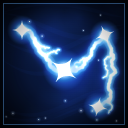
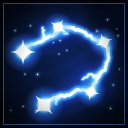
[Claude] feat(ui): 疾風迅雷、雙刀亂舞、突刺、連鎖閃電圖示重畫
- 疾風迅雷：改為深藍披風人影突進的剪影（兩道殘影、朝前輪廓光）＋白光斬擊，雷電只剩細電弧點綴
- 雙刀亂舞：刀身收細、刀柄放大到合理比例
- 突刺：只畫刀身前半段，刀尖、衝擊波紋與閃光為主角
- 連鎖閃電：光點沿不閉合五角形跳一圈，均勻分布於正方形
- 四張的構圖重心偏移都在 10 以內（centroid 量測）

diff --git a/tools/skill-icons/skill-icon-painter.js b/tools/skill-icons/skill-icon-painter.js
@@ -432,60 +432,48 @@
 
   var PAINTERS = {};
 
-  /* 突刺：細劍斜刺，殘影＋刺尖衝擊環 */
+  /* 突刺：只取刀身前半段——刀身從左下畫外伸入，刀尖在畫面中央偏右上，衝擊波紋＋閃光是主角 */
   PAINTERS.thrust = function (c, R) {
-    background(c, R, Object.assign({ cx: 186, cy: 72 }, PAL.steel));
-    var tx = 212, ty = 44, bx = 66, by = 194;
-    var ang = Math.atan2(ty - by, tx - bx);
-    var dx = Math.cos(ang), dy = Math.sin(ang), nx = -dy, ny = dx;
-    /* 速度線：全部平行於刺擊方向 */
+    background(c, R, Object.assign({ cx: 150, cy: 106 }, PAL.steel));
+    var tx = 156, ty = 96;  /* 量出重心偏右 11，往左補 */
+    var ang = Math.atan2(-1, 1), dx = Math.cos(ang), dy = Math.sin(ang), nx = -dy, ny = dx;
+    /* 速度線（短、集中在刀身周圍） */
     add(c);
     for (var i = 0; i < 12; i++) {
-      var off = range(R, -70, 70), st = range(R, -80, 40), ln = range(R, 50, 120);
-      var x0 = 128 + nx * off + dx * st, y0 = 128 + ny * off + dy * st;
-      ribbon(c, linePts(x0 - dx * ln, y0 - dy * ln, x0, y0, 8), function (t) { return 2 * Math.sin(Math.PI * t); },
-        rgba('#a8d0ff', range(R, 0.12, 0.35)));
+      var off = range(R, -56, 56), st = range(R, -150, -30), ln = range(R, 40, 90);
+      var x0 = tx + nx * off + dx * st, y0 = ty + ny * off + dy * st;
+      ribbon(c, linePts(x0, y0, x0 + dx * ln, y0 + dy * ln, 8), function (t) { return 2.2 * Math.sin(Math.PI * t); },
+        rgba('#a8d0ff', range(R, 0.15, 0.4)));
     }
     normal(c);
-    /* 殘影：同一直線往後錯開的藍色劍影（連刺） */
+    /* 衝擊波紋：沿刺擊方向排開的橢圓環，越前越大越淡（畫在刀身後，刀尖穿過它們） */
     add(c);
-    [46, 92].forEach(function (back, k) {
-      var pts = linePts(bx - dx * back, by - dy * back, tx - dx * back, ty - dy * back, 20);
-      ribbon(c, pts, function (t) { return 9 * (t > 0.7 ? (1 - t) / 0.3 : 1); }, alongGrad(c, pts,
-        [[0, 'rgba(90,160,255,0)'], [0.6, 'rgba(110,180,255,' + (0.35 - k * 0.12) + ')'], [1, 'rgba(200,230,255,' + (0.55 - k * 0.18) + ')']]));
-    });
-    normal(c);
-    /* 細劍 */
-    bladeAlong(c, linePts(bx, by, tx, ty, 26), 9, STEEL, { wFn: function (t) { return t > 0.62 ? Math.pow((1 - t) / 0.38, 0.8) : 1; } });
-    /* 杯狀護手：金色半球＋護指弓 */
-    c.save(); c.translate(bx, by); c.rotate(ang);
-    var cg = c.createLinearGradient(0, -18, 0, 18);
-    cg.addColorStop(0, '#fff1b8'); cg.addColorStop(0.45, '#d9a441'); cg.addColorStop(1, '#4a2e0c');
-    c.fillStyle = cg;
-    c.beginPath(); c.ellipse(2, 0, 7, 19, 0, -Math.PI / 2, Math.PI / 2); c.lineTo(2, -19); c.fill();
-    c.strokeStyle = '#d9a441'; c.lineWidth = 2.6;
-    c.beginPath(); c.moveTo(4, -17); c.bezierCurveTo(-10, -26, -34, -18, -40, -4); c.stroke();
-    c.fillStyle = '#2a1a12'; roundRect(c, -38, -4, 36, 8, 3); c.fill();
-    c.fillStyle = cg; c.beginPath(); c.arc(-42, 0, 6, 0, TAU); c.fill();
-    c.restore();
-    /* 刺尖：錐狀衝擊環＋前衝光束 */
-    add(c);
-    for (var k = 0; k < 3; k++) {
-      var d = 14 + k * 18;
-      c.save(); c.translate(tx - dx * d, ty - dy * d); c.rotate(ang);
-      c.strokeStyle = rgba('#bfe0ff', 0.8 - k * 0.22); c.lineWidth = 2.4 - k * 0.5;
-      c.shadowBlur = 8; c.shadowColor = '#7fb8ff';
-      c.beginPath(); c.ellipse(0, 0, 4 + k * 2, 12 + k * 10, 0, 0, TAU); c.stroke();
+    for (var k = 0; k < 4; k++) {
+      var d = -26 + k * 20;
+      c.save(); c.translate(tx + dx * d, ty + dy * d); c.rotate(ang);
+      c.strokeStyle = rgba('#bfe0ff', 0.85 - k * 0.17); c.lineWidth = 3.2 - k * 0.5;
+      c.shadowBlur = 12; c.shadowColor = '#7fb8ff';
+      c.beginPath(); c.ellipse(0, 0, 7 + k * 3, 22 + k * 13, 0, 0, TAU); c.stroke();
       c.restore();
     }
-    for (var r2 = 0; r2 < 7; r2++) {
-      var a = ang + range(R, -0.35, 0.35), ln2 = range(R, 18, 44);
-      ribbon(c, linePts(tx, ty, tx + Math.cos(a) * ln2, ty + Math.sin(a) * ln2, 5), function (t) { return 3 * (1 - t); }, rgba('#dff0ff', 0.7));
+    normal(c);
+    /* 刀身前半段：寬，往刀尖收 */
+    var bx = tx - dx * 190, by = ty - dy * 190;
+    bladeAlong(c, linePts(bx, by, tx, ty, 26), 19, STEEL, { wFn: function (t) { return t > 0.4 ? Math.pow((1 - t) / 0.6, 0.75) : 1; } });
+    /* 中央血槽 */
+    add(c);
+    strokePts(c, linePts(bx + dx * 10, by + dy * 10, tx - dx * 70, ty - dy * 70, 2), 2.4, 'rgba(220,235,255,0.45)');
+    normal(c);
+    /* 刀尖閃光與往前迸的光束 */
+    add(c);
+    for (var r2 = 0; r2 < 9; r2++) {
+      var a = ang + range(R, -0.45, 0.45), ln2 = range(R, 22, 60);
+      ribbon(c, linePts(tx, ty, tx + Math.cos(a) * ln2, ty + Math.sin(a) * ln2, 5), function (t) { return 3.4 * (1 - t); }, rgba('#dff0ff', 0.75));
     }
     normal(c);
-    coreGlow(c, tx, ty, 34, '#7fb8ff');
-    sparkle(c, tx, ty, 22, '#9fd0ff', 0.2);
-    motes(c, R, 12, [140, 10, 246, 120], ['#bfe0ff', '#ffffff'], 1, 2.2);
+    coreGlow(c, tx, ty, 36, '#7fb8ff');
+    sparkle(c, tx, ty, 24, '#9fd0ff', 0.2);
+    motes(c, R, 14, [90, 20, 246, 170], ['#bfe0ff', '#ffffff'], 1, 2.4);
   };
 
   /* 迴旋斬：俯視的旋風刀光圓盤，刀光平均分布一整圈；金橘赤紅洋紅多色，青白火花點綴（不畫兵器） */
@@ -573,54 +561,73 @@
     motes(c, R, 12, [30, 20, 240, 230], ['#bfe0ff'], 1, 2);
   };
 
-  /* 疾風迅雷：一道粗大的 Z 字實心雷電斜劈而過，外纏青綠疾風氣流，後方拖速度線（風＋雷＋快） */
+  /* 疾風迅雷：深藍人影突進的剪影（兩道殘影），前方一道白光斬擊，周圍只用細細的白色電弧點綴——本質是斬擊，雷不是主角 */
   PAINTERS.gale = function (c, R) {
-    background(c, R, Object.assign({ cx: 128, cy: 128 }, PAL.bolt));
-    add(c); glowDot(c, 128, 128, 120, '#2a8a7a', 0.25); normal(c);
-    /* 速度線：從左下往右上，與雷電同向 */
-    var dir = Math.atan2(-1, 0.8), dx = Math.cos(dir), dy = Math.sin(dir), nx = -dy, ny = dx;
+    background(c, R, Object.assign({ cx: 120, cy: 128 }, PAL.ice));
+    /* 水平速度線 */
     add(c);
-    for (var i = 0; i < 12; i++) {
-      var off = range(R, -90, 90), st = range(R, -110, 10), ln = range(R, 40, 90);
-      var x0 = 128 + nx * off + dx * st, y0 = 128 + ny * off + dy * st;
-      ribbon(c, linePts(x0, y0, x0 + dx * ln, y0 + dy * ln, 8), function (t) { return 2.4 * Math.sin(Math.PI * t); },
-        rgba(i % 3 ? '#8ff5d0' : '#ffe27a', range(R, 0.15, 0.4)));
+    for (var i = 0; i < 16; i++) {
+      var y = range(R, 40, 220), x0 = range(R, -20, 120), ln = range(R, 50, 130);
+      ribbon(c, linePts(x0, y, x0 + ln, y - ln * 0.12, 8), function (t) { return 2.2 * Math.sin(Math.PI * t); }, rgba('#bfe0ff', range(R, 0.12, 0.35)));
     }
     normal(c);
-    /* 雷電本體：經典的 ⚡ 實心多邊形，內縮一圈當白芯 */
-    /* 上寬下尖，量出重心偏上 10，整個往下 8 */
-    var BOLT = [[150, 24], [92, 144], [128, 144], [100, 246], [176, 118], [138, 118], [178, 24]];
-    var bcx = 0, bcy = 0;
-    BOLT.forEach(function (p) { bcx += p[0] / BOLT.length; bcy += p[1] / BOLT.length; });
-    var bolt = function (cc, k) {
-      cc.beginPath();
-      BOLT.forEach(function (p, i) {
-        var x = bcx + (p[0] - bcx) * k, y = bcy + (p[1] - bcy) * k;
-        if (i) cc.lineTo(x, y); else cc.moveTo(x, y);
-      });
-      cc.closePath();
+    /* 人影：在離屏畫布畫成單色剪影，之後拿來做殘影、本體、輪廓光 */
+    var fig = makeCanvas(S, S), f = fig.getContext('2d');
+    f.fillStyle = '#000'; f.strokeStyle = '#000'; f.lineCap = 'round'; f.lineJoin = 'round';
+    var limb = function (pts, w) {
+      f.lineWidth = w; f.beginPath(); f.moveTo(pts[0][0], pts[0][1]);
+      for (var k = 1; k < pts.length; k++) f.lineTo(pts[k][0], pts[k][1]);
+      f.stroke();
     };
-    c.save(); add(c);
-    bolt(c, 1.08); c.fillStyle = 'rgba(255,190,40,0.25)'; c.shadowBlur = 34; c.shadowColor = '#ffb020'; c.fill();
-    c.restore();
-    c.save();
-    bolt(c, 1);
-    var bg = c.createLinearGradient(110, 16, 150, 240);
-    bg.addColorStop(0, '#fff6c0'); bg.addColorStop(0.45, '#ffd84a'); bg.addColorStop(1, '#ff8a1a');
-    c.fillStyle = bg; c.fill();
-    c.lineJoin = 'round'; c.lineWidth = 2.4; c.strokeStyle = 'rgba(255,255,235,0.95)'; c.stroke();
-    c.restore();
-    c.save(); add(c);
-    bolt(c, 0.55); c.fillStyle = 'rgba(255,255,255,0.75)'; c.shadowBlur = 10; c.shadowColor = '#ffffff'; c.fill();
-    c.restore();
-    /* 纏繞雷電的疾風氣流：兩條 S 形青綠帶子，前後穿插 */
-    swoosh(c, bezPts([30, 200], [90, 120], [190, 210], [226, 70], 50), 16, '#5ef0c0', { taper: 'head' });
-    swoosh(c, bezPts([226, 190], [170, 150], [70, 150], [40, 50], 50), 12, '#8ff5e0', { taper: 'head' });
-    /* 雷電邊緣迸出的細電弧 */
-    lightning(c, 96, 134, 46, 112, R, { width: 1.6, color: '#ffd84a', rough: 0.4, depth: 4 });
-    lightning(c, 176, 110, 224, 132, R, { width: 1.6, color: '#ffd84a', rough: 0.4, depth: 4 });
-    lightning(c, 100, 238, 56, 214, R, { width: 1.4, color: '#ffd84a', rough: 0.4, depth: 4 });
-    motes(c, R, 18, [10, 10, 246, 246], ['#ffe27a', '#8ff5d0'], 1, 2.2);
+    /* 身體大幅前傾往右上衝：頭在右上、後腳往左下拉長。整個人影往左下移，重心才會在中央 */
+    f.translate(-16, 16);
+    /* 披風：從肩膀往後飄的大片布，給剪影份量 */
+    f.beginPath();
+    f.moveTo(146, 94);
+    f.bezierCurveTo(112, 84, 82, 96, 34, 84);
+    f.bezierCurveTo(60, 104, 66, 122, 46, 140);
+    f.bezierCurveTo(84, 138, 104, 150, 122, 150);
+    f.closePath(); f.fill();
+    f.beginPath(); f.arc(166, 80, 17, 0, TAU); f.fill();                         /* 頭 */
+    f.beginPath();                                                               /* 軀幹：寬肩窄腰 */
+    f.moveTo(144, 90); f.lineTo(176, 100); f.lineTo(140, 158); f.lineTo(108, 150); f.closePath(); f.fill();
+    limb([[150, 102], [120, 118], [96, 116]], 15);                                /* 後擺的手 */
+    limb([[166, 104], [192, 120], [214, 114]], 15);                               /* 前伸持刀的手 */
+    limb([[128, 150], [158, 176], [184, 190]], 21);                               /* 前腳（彎曲踏地） */
+    limb([[118, 152], [84, 172], [42, 196]], 19);                                 /* 後腳（拉長蹬地） */
+    f.beginPath(); f.ellipse(190, 192, 13, 6, 0.2, 0, TAU); f.fill();             /* 前腳掌 */
+    /* 手上的刀（短直刀，順著前伸方向） */
+    limb([[208, 115], [250, 104]], 5);
+    f.setTransform(1, 0, 0, 1, 0, 0);
+
+    var tinted = function (color, alpha) {
+      var t = makeCanvas(S, S), tc = t.getContext('2d');
+      tc.drawImage(fig, 0, 0);
+      tc.globalCompositeOperation = 'source-in'; tc.fillStyle = color; tc.fillRect(0, 0, S, S);
+      c.save(); c.globalAlpha = alpha; c.drawImage(t, 0, 0); c.restore();
+      return t;
+    };
+    /* 殘影：往左下錯開、越遠越淡 */
+    c.save(); c.translate(-62, 18); add(c); tinted('#3a7aff', 0.18); c.restore();
+    c.save(); c.translate(-32, 9); add(c); tinted('#5a9aff', 0.32); c.restore();
+    /* 本體：先畫藍色光暈再蓋深藍剪影 */
+    c.save(); c.filter = 'blur(6px)'; add(c); tinted('#4a8cff', 0.9); c.restore();
+    tinted('#0a1846', 1);
+    /* 輪廓光：白色剪影扣掉往左下位移的剪影，只留朝前（右上）的邊 */
+    var rim = makeCanvas(S, S), rc = rim.getContext('2d');
+    rc.drawImage(fig, 0, 0);
+    rc.globalCompositeOperation = 'source-in'; rc.fillStyle = '#d8ecff'; rc.fillRect(0, 0, S, S);
+    rc.globalCompositeOperation = 'destination-out'; rc.drawImage(fig, -3, 3);
+    c.save(); add(c); c.drawImage(rim, 0, 0); c.restore();
+    /* 白光斬擊：從人影前方劃出的細長弧 */
+    /* 斬擊弧很亮，量出重心偏右 14，整條往左移 */
+    swoosh(c, arcPts(84, 266, 186, Math.PI * 1.38, Math.PI * 1.88, 50), 15, '#cfe6ff', { side: 1 });
+    /* 點綴用的細電弧（白藍、細、短） */
+    lightning(c, 184, 64, 220, 84, R, { width: 1.1, color: '#bfe0ff', rough: 0.4, depth: 4 });
+    lightning(c, 150, 186, 196, 214, R, { width: 1.1, color: '#bfe0ff', rough: 0.4, depth: 4 });
+    lightning(c, 60, 186, 96, 210, R, { width: 0.9, color: '#bfe0ff', rough: 0.4, depth: 4 });
+    sparkle(c, 220, 124, 16, '#cfe6ff', 0.2);
+    motes(c, R, 14, [20, 20, 246, 236], ['#cfe6ff', '#ffffff'], 1, 2);
   };
 
   /* 血刃斬：一道大弧形血斬（重心在正中），紫色外暈與紫羅蘭細血痕，切口噴出紅紫血珠（不畫兵器） */
@@ -660,21 +667,23 @@
     motes(c, R, 16, [10, 10, 246, 246], ['#ff4455', '#c070ff', '#ff8a8a'], 1, 2.2);
   };
 
-  /* 雙刀亂舞：兩把直刃短劍交叉，四周是不閉合的旋舞刀光 */
+  /* 雙刀亂舞：兩把比例合理的短劍交叉（刀身細、刀柄約刀身四分之一），四周不閉合的旋舞刀光 */
   PAINTERS.dualdance = function (c, R) {
     background(c, R, Object.assign({ cx: 128, cy: 120 }, PAL.blood));
-    /* 刀光：中心錯開、角度不一的弧，避免組成封閉的圓 */
     swoosh(c, arcPts(118, 132, 100, Math.PI * 0.62, Math.PI * 1.55, 50), 24, '#ff3040', { taper: 'head' });
     swoosh(c, arcPts(140, 120, 92, Math.PI * 1.72, Math.PI * 2.55, 46), 20, '#ff7a2a', { taper: 'head' });
     swoosh(c, arcPts(128, 128, 64, Math.PI * 0.05, Math.PI * 0.6, 30), 12, '#ffb04a', { taper: 'head' });
     var steelR = ['#24141a', '#6e4c56', '#d4b6bc', '#ff7a7a'];
-    bladeAlong(c, linePts(190, 206, 54, 52, 24), 14, steelR, { tip: 0.16 });
-    bladeAlong(c, linePts(66, 206, 202, 52, 24), 14, steelR, { tip: 0.16 });
-    hilt(c, 190, 206, Math.atan2(52 - 206, 54 - 190), 12, ['#30080c', '#a8262e', '#ffb0a0']);
-    hilt(c, 66, 206, Math.atan2(52 - 206, 202 - 66), 12, ['#30080c', '#a8262e', '#ffb0a0']);
-    /* 刀刃交擊點 */
-    coreGlow(c, 128, 136, 34, '#ff5a3a');
-    sparkle(c, 128, 136, 22, '#ffb070', 0.4);
+    var gold = ['#30080c', '#a8262e', '#ffb0a0'];
+    /* 護手在 (gx,gy)、刀尖在 (tx,ty)；握把由 hilt() 往刀尖反方向畫 */
+    var sword = function (gx, gy, tx, ty) {
+      bladeAlong(c, linePts(gx, gy, tx, ty, 22), 10, steelR, { tip: 0.16 });
+      hilt(c, gx, gy, Math.atan2(ty - gy, tx - gx), 18, gold);
+    };
+    sword(176, 180, 60, 48);
+    sword(80, 180, 196, 48);
+    coreGlow(c, 128, 123, 30, '#ff5a3a');
+    sparkle(c, 128, 123, 20, '#ffb070', 0.4);
     motes(c, R, 20, [20, 20, 236, 236], ['#ff8a2a', '#ff4455', '#ffd27a'], 1, 2.4);
   };
 
@@ -1144,16 +1153,17 @@
     motes(c, R, 24, [30, 30, 226, 220], ['#fff2b0', '#ffe48a', '#ffffff'], 1, 2.4);
   };
 
-  /* 連鎖閃電：藍色雷光在光點之間跳躍（使用者指定藍色系，與落雷、雷球的金色區隔） */
+  /* 連鎖閃電：五個光點沿不閉合的五角形跳一圈，均勻鋪滿正方形（W 形會被看成英文字母） */
   PAINTERS.chainlightning = function (c, R) {
     background(c, R, PAL.boltBlue);
-    var nodes = [[44, 60], [128, 140], [210, 70], [196, 214]];
+    var nodes = [[46, 104], [116, 54], [208, 84], [182, 184], [88, 210]];
     for (var i = 0; i < nodes.length - 1; i++) {
-      lightning(c, nodes[i][0], nodes[i][1], nodes[i + 1][0], nodes[i + 1][1], R, { width: i === 0 ? 4.4 : 3.6, branches: 2, rough: 0.2, color: '#5aa8ff' });
+      lightning(c, nodes[i][0], nodes[i][1], nodes[i + 1][0], nodes[i + 1][1], R, { width: 3.6, branches: 1, rough: 0.18, color: '#5aa8ff' });
     }
     nodes.forEach(function (n, i) {
-      coreGlow(c, n[0], n[1], i === 1 ? 42 : 30, '#3a8cff', '#ffffff');
-      sparkle(c, n[0], n[1], i === 1 ? 30 : 20, '#8fd0ff', i * 0.6);
+      var big = i === 0 || i === nodes.length - 1;
+      coreGlow(c, n[0], n[1], big ? 40 : 30, '#3a8cff', '#ffffff');
+      sparkle(c, n[0], n[1], big ? 26 : 18, '#8fd0ff', i * 0.6);
     });
     motes(c, R, 18, [10, 10, 246, 246], ['#8fd0ff', '#c8e6ff'], 1, 2.2);
   };
